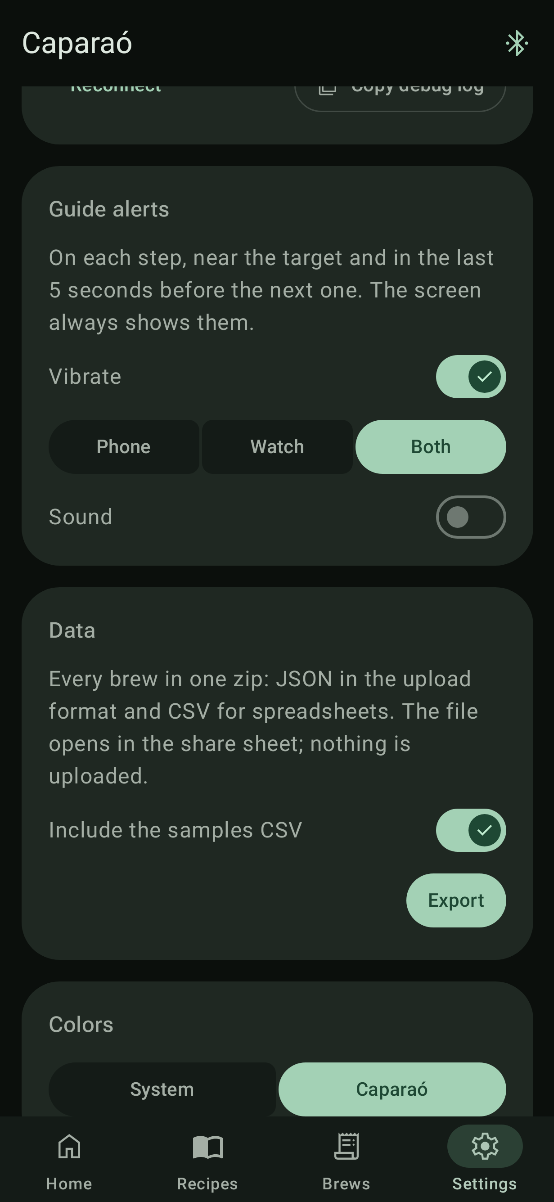
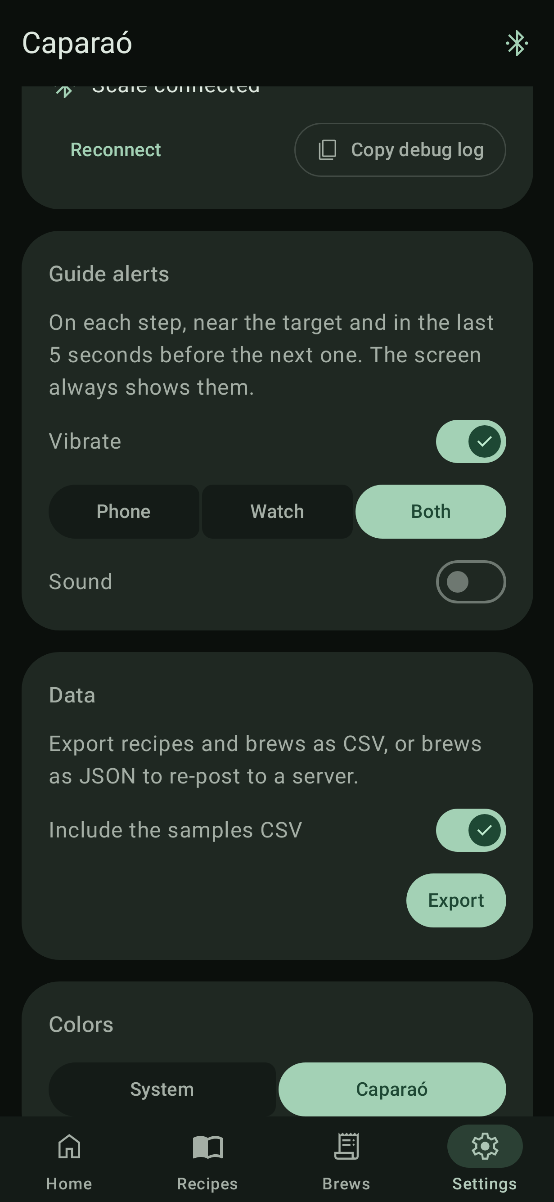
Export recipes as CSV too
Add recipes.csv to the zip, one row per step with the recipe fields repeated, and shorten the section copy to say what each format is for.

Changed region(s): [[0.0307, 0.0616, 0.9819, 0.6772], [0.4603, 0.3694, 0.5523, 0.4309], [0.0921, 0.4002, 0.1227, 0.4309]]

diff --git a/app/src/test/java/io/github/mateuxlucax/caparao/data/export/BrewExporterCsvTest.kt b/app/src/test/java/io/github/mateuxlucax/caparao/data/export/BrewExporterCsvTest.kt
@@ -4,6 +4,9 @@ import io.github.mateuxlucax.caparao.model.Brew
 import io.github.mateuxlucax.caparao.model.BrewMode
 import io.github.mateuxlucax.caparao.model.BrewSample
 import io.github.mateuxlucax.caparao.model.BrewWithSamples
+import io.github.mateuxlucax.caparao.model.Recipe
+import io.github.mateuxlucax.caparao.model.RecipeStep
+import io.github.mateuxlucax.caparao.model.StepKind
 import org.junit.Assert.assertEquals
 import org.junit.Assert.assertFalse
 import org.junit.Assert.assertTrue
@@ -35,6 +38,25 @@ class BrewExporterCsvTest {
     )
     private val samples = listOf(BrewSample(0, 0.0, 0.0), BrewSample(15_000, 17.9, 2.1), BrewSample(28_600, 36.4, 1.1))
     private val brews = listOf(BrewWithSamples(brew, samples))
+    private val recipe = Recipe(
+        id = "5d2b9f60-1c4e-4a8b-8e37-c0a1f6d3b7e5",
+        name = "V60",
+        mode = BrewMode.FILTER,
+        method = "V60",
+        doseGrams = 15.0,
+        targetRatio = 16.0,
+        grind = "22",
+        waterTempCelsius = 94,
+        notes = "Bright",
+        steps = listOf(
+            RecipeStep(StepKind.BLOOM, 30.0, 0),
+            RecipeStep(StepKind.POUR, 240.0, 30_000),
+            RecipeStep(StepKind.WAIT, null, 60_000),
+        ),
+        createdAt = 1_792_000_000_000,
+        updatedAt = 1_792_000_000_000,
+    )
+    private val recipes = listOf(recipe)
 
     @Test
     fun brewsCsvHasTheHeaderAndOneRowPerBrew() {
@@ -95,15 +117,64 @@ class BrewExporterCsvTest {
     fun zipHasJsonAndBothCsvs() {
         val entries = zipEntries(includeSamples = true)
 
-        assertEquals(setOf("brews.json", "brews.csv", "samples.csv"), entries.keys)
+        assertEquals(setOf("brews.json", "brews.csv", "recipes.csv", "samples.csv"), entries.keys)
         assertTrue(entries.getValue("brews.json").trimStart().startsWith("["))
         assertTrue(entries.getValue("brews.csv").startsWith("id,mode,"))
+        assertTrue(entries.getValue("recipes.csv").startsWith("recipe_id,"))
         assertTrue(entries.getValue("samples.csv").startsWith("brew_id,"))
     }
 
     @Test
     fun zipCanSkipTheSamplesCsv() {
-        assertEquals(setOf("brews.json", "brews.csv"), zipEntries(includeSamples = false).keys)
+        assertEquals(setOf("brews.json", "brews.csv", "recipes.csv"), zipEntries(includeSamples = false).keys)
+    }
+
+    @Test
+    fun recipesCsvListsOneRowPerStep() {
+        val lines = BrewExporter.recipesCsv(recipes).lines().filter { it.isNotEmpty() }
+
+        assertEquals(4, lines.size)
+        assertEquals(
+            "recipe_id,name,mode,method,dose_g,target_ratio,target_yield_g,grind,water_temp_c,notes,target_min_s,target_max_s," +
+                "step_position,step_kind,step_weight_g,step_at_s",
+            lines.first(),
+        )
+        val bloom = lines[1].split(",")
+        assertEquals(recipe.id, bloom[0])
+        assertEquals("V60", bloom[1])
+        assertEquals("filter", bloom[2])
+        assertEquals("15", bloom[4])
+        assertEquals("16", bloom[5])
+        assertEquals("240", bloom[6])
+        assertEquals("1", bloom[12])
+        assertEquals("bloom", bloom[13])
+        assertEquals("30", bloom[14])
+        assertEquals("0", bloom[15])
+        assertEquals("wait", lines[3].split(",")[13])
+        assertEquals("", lines[3].split(",")[14])
+        assertEquals("60", lines[3].split(",")[15])
+    }
+
+    @Test
+    fun espressoCsvHasOneRowWithEmptyStepColumns() {
+        val espresso = recipe.copy(
+            id = "b7c1a2d3-4e5f-4a6b-8c9d-0e1f2a3b4c5d",
+            name = "Oster",
+            mode = BrewMode.ESPRESSO,
+            method = "Espresso",
+            steps = emptyList(),
+            targetMinMs = 25_000,
+            targetMaxMs = 30_000,
+        )
+
+        val lines = BrewExporter.recipesCsv(listOf(espresso)).lines().filter { it.isNotEmpty() }
+
+        assertEquals(2, lines.size)
+        val row = lines[1].split(",")
+        assertEquals("espresso", row[2])
+        assertEquals("25", row[10])
+        assertEquals("30", row[11])
+        assertEquals(listOf("", "", "", ""), row.subList(12, 16))
     }
 
     @Test
@@ -112,12 +183,13 @@ class BrewExporterCsvTest {
 
         assertEquals("id,mode,", BrewExporter.brewsCsv(empty).take(8))
         assertEquals("brew_id,at_ms,", BrewExporter.samplesCsv(empty).take(14))
+        assertEquals("recipe_id,name,", BrewExporter.recipesCsv(emptyList()).take(15))
         assertEquals("[]", BrewExporter.json(empty))
     }
 
     private fun zipEntries(includeSamples: Boolean): Map<String, String> {
         val out = ByteArrayOutputStream()
-        BrewExporter.writeZip(out, brews, includeSamples)
+        BrewExporter.writeZip(out, brews, recipes, includeSamples)
         val entries = LinkedHashMap<String, String>()
         ZipInputStream(ByteArrayInputStream(out.toByteArray())).use { zip ->
             var entry = zip.nextEntry

diff --git a/app/src/main/java/io/github/mateuxlucax/caparao/data/export/BrewExporter.kt b/app/src/main/java/io/github/mateuxlucax/caparao/data/export/BrewExporter.kt
@@ -3,6 +3,7 @@ package io.github.mateuxlucax.caparao.data.export
 import io.github.mateuxlucax.caparao.data.exporter.ExporterClient
 import io.github.mateuxlucax.caparao.model.BrewMode
 import io.github.mateuxlucax.caparao.model.BrewWithSamples
+import io.github.mateuxlucax.caparao.model.Recipe
 import org.json.JSONArray
 import java.io.BufferedOutputStream
 import java.io.OutputStream
@@ -61,13 +62,52 @@ object BrewExporter {
     }
 
     /**
-     * The shareable archive: `brews.json` and `brews.csv` always, `samples.csv` only when [includeSamples]. The JSON
-     * always carries the curve, since it is the re-postable copy.
+     * One row per step, the recipe fields repeated; a recipe with no steps (espresso) still gets one row with the step
+     * columns empty, so nothing is lost.
      */
-    fun writeZip(out: OutputStream, brews: List<BrewWithSamples>, includeSamples: Boolean) {
+    fun recipesCsv(recipes: List<Recipe>): String = buildString {
+        appendLine(RECIPES_HEADER)
+        recipes.forEach { recipe ->
+            val fields = listOf(
+                csv(recipe.id),
+                csv(recipe.name),
+                if (recipe.mode == BrewMode.ESPRESSO) "espresso" else "filter",
+                csv(recipe.method),
+                number(recipe.doseGrams),
+                number(recipe.targetRatio),
+                number(recipe.targetYieldGrams),
+                csv(recipe.grind),
+                recipe.waterTempCelsius?.toString().orEmpty(),
+                csv(recipe.notes),
+                recipe.targetMinMs?.let { seconds(it) }.orEmpty(),
+                recipe.targetMaxMs?.let { seconds(it) }.orEmpty(),
+            )
+            if (recipe.steps.isEmpty()) {
+                appendLine(fields.joinToString(",") + ",,,,")
+            } else {
+                recipe.steps.forEachIndexed { index, step ->
+                    appendLine(
+                        (fields + listOf(
+                            (index + 1).toString(),
+                            step.kind.name.lowercase(),
+                            step.targetWeightGrams?.let { number(it) }.orEmpty(),
+                            seconds(step.targetAtMs),
+                        )).joinToString(","),
+                    )
+                }
+            }
+        }
+    }
+
+    /**
+     * The shareable archive: `brews.json`, `brews.csv` and `recipes.csv` always, `samples.csv` only when
+     * [includeSamples]. The JSON always carries the curve, since it is the re-postable copy.
+     */
+    fun writeZip(out: OutputStream, brews: List<BrewWithSamples>, recipes: List<Recipe>, includeSamples: Boolean) {
         ZipOutputStream(BufferedOutputStream(out)).use { zip ->
             zip.entry("brews.json", json(brews))
             zip.entry("brews.csv", brewsCsv(brews))
+            zip.entry("recipes.csv", recipesCsv(recipes))
             if (includeSamples) zip.entry("samples.csv", samplesCsv(brews))
         }
     }
@@ -96,4 +136,7 @@ object BrewExporter {
         "id,mode,started_at,duration_s,dose_g,yield_g,time_to_first_drop_s,flow_avg_gps,flow_peak_gps,interrupted," +
             "recipe_name,coffee,grind,water_temp_c,rating,notes"
     private const val SAMPLES_HEADER = "brew_id,at_ms,weight_g,flow_gps"
+    private const val RECIPES_HEADER =
+        "recipe_id,name,mode,method,dose_g,target_ratio,target_yield_g,grind,water_temp_c,notes,target_min_s,target_max_s," +
+            "step_position,step_kind,step_weight_g,step_at_s"
 }

diff --git a/app/src/test/java/io/github/mateuxlucax/caparao/data/export/BrewExportFilesTest.kt b/app/src/test/java/io/github/mateuxlucax/caparao/data/export/BrewExportFilesTest.kt
@@ -3,13 +3,19 @@ package io.github.mateuxlucax.caparao.data.export
 import android.content.Context
 import androidx.test.core.app.ApplicationProvider
 import io.github.mateuxlucax.caparao.data.local.BrewRepository
+import io.github.mateuxlucax.caparao.data.local.RecipeRepository
 import io.github.mateuxlucax.caparao.model.Brew
 import io.github.mateuxlucax.caparao.model.BrewMode
 import io.github.mateuxlucax.caparao.model.BrewSample
+import io.github.mateuxlucax.caparao.model.Recipe
+import io.github.mateuxlucax.caparao.model.RecipeStep
+import io.github.mateuxlucax.caparao.model.StepKind
 import io.github.mateuxlucax.caparao.ui.FakeBrewDao
+import io.github.mateuxlucax.caparao.ui.FakeRecipeDao
 import kotlinx.coroutines.runBlocking
 import org.json.JSONArray
 import org.junit.Assert.assertEquals
+import org.junit.Assert.assertTrue
 import org.junit.Test
 import org.junit.runner.RunWith
 import org.robolectric.RobolectricTestRunner
@@ -21,7 +27,8 @@ class BrewExportFilesTest {
     private val context = ApplicationProvider.getApplicationContext<Context>()
     private val dao = FakeBrewDao()
     private val repository = BrewRepository(dao)
-    private val files = BrewExportFiles(context, repository)
+    private val recipeRepository = RecipeRepository(FakeRecipeDao())
+    private val files = BrewExportFiles(context, repository, recipeRepository)
 
     private val brew = Brew(
         id = "0f8e1c2a-5b7d-4c3e-9a10-2f6d8b4e7c91",
@@ -44,13 +51,28 @@ class BrewExportFilesTest {
     @Test
     fun writesTheZipAndTheSingleBrewJsonThroughTheProvider() = runBlocking {
         repository.save(brew, samples)
+        recipeRepository.save(
+            Recipe(
+                id = "5d2b9f60-1c4e-4a8b-8e37-c0a1f6d3b7e5",
+                name = "V60",
+                mode = BrewMode.FILTER,
+                method = "V60",
+                doseGrams = 15.0,
+                targetRatio = 16.0,
+                steps = listOf(RecipeStep(StepKind.BLOOM, 30.0, 0), RecipeStep(StepKind.POUR, 240.0, 30_000)),
+                createdAt = 1_792_000_000_000,
+                updatedAt = 1_792_000_000_000,
+            ),
+        )
 
         val all = files.all(includeSamples = true)
         assertEquals("application/zip", all.mimeType)
         assertEquals("content", all.uri.scheme)
         assertEquals("${context.packageName}.fileprovider", all.uri.authority)
         val bytes = context.contentResolver.openInputStream(all.uri)!!.use { it.readBytes() }
-        assertEquals(setOf("brews.json", "brews.csv", "samples.csv"), zipEntries(bytes).keys)
+        val entries = zipEntries(bytes)
+        assertEquals(setOf("brews.json", "brews.csv", "recipes.csv", "samples.csv"), entries.keys)
+        assertTrue(entries.getValue("recipes.csv").contains("V60"))
 
         val one = files.one(brew, samples)
         assertEquals("application/json", one.mimeType)

diff --git a/app/src/main/java/io/github/mateuxlucax/caparao/data/export/BrewExportFiles.kt b/app/src/main/java/io/github/mateuxlucax/caparao/data/export/BrewExportFiles.kt
@@ -4,6 +4,7 @@ import android.content.Context
 import android.net.Uri
 import androidx.core.content.FileProvider
 import io.github.mateuxlucax.caparao.data.local.BrewRepository
+import io.github.mateuxlucax.caparao.data.local.RecipeRepository
 import io.github.mateuxlucax.caparao.model.Brew
 import io.github.mateuxlucax.caparao.model.BrewSample
 import io.github.mateuxlucax.caparao.model.BrewWithSamples
@@ -15,12 +16,13 @@ import java.io.File
 data class ExportedFile(val uri: Uri, val mimeType: String)
 
 /** Writes the exports to the cache and hands them to the share sheet through the FileProvider (#76). */
-class BrewExportFiles(private val context: Context, private val repository: BrewRepository) {
-    /** Every brew in one zip: contract JSON, `brews.csv` and, when asked, `samples.csv`. */
+class BrewExportFiles(private val context: Context, private val repository: BrewRepository, private val recipes: RecipeRepository) {
+    /** Every brew and recipe in one zip: contract JSON, `brews.csv`, `recipes.csv` and, when asked, `samples.csv`. */
     suspend fun all(includeSamples: Boolean): ExportedFile = withContext(Dispatchers.IO) {
         val brews = repository.allWithSamples()
+        val recipeList = recipes.all()
         val file = newFile("caparao-export.zip")
-        file.outputStream().use { BrewExporter.writeZip(it, brews, includeSamples) }
+        file.outputStream().use { BrewExporter.writeZip(it, brews, recipeList, includeSamples) }
         ExportedFile(uri(file), "application/zip")
     }
 

diff --git a/app/src/main/java/io/github/mateuxlucax/caparao/data/local/RecipeRepository.kt b/app/src/main/java/io/github/mateuxlucax/caparao/data/local/RecipeRepository.kt
@@ -6,6 +6,7 @@ import io.github.mateuxlucax.caparao.model.RecipeStep
 import io.github.mateuxlucax.caparao.model.StepKind
 import kotlinx.coroutines.flow.Flow
 import kotlinx.coroutines.flow.combine
+import kotlinx.coroutines.flow.first
 
 /** Recipes on the phone (#102); they never leave it, only a brew's copy of the name does. */
 class RecipeRepository(private val dao: RecipeDao) {
@@ -16,6 +17,9 @@ class RecipeRepository(private val dao: RecipeDao) {
     }
 
     suspend fun get(id: String): Recipe? = dao.get(id)?.toModel(dao.steps(id))
+
+    /** Every recipe with its steps, for the export (#76). */
+    suspend fun all(): List<Recipe> = recipes.first()
 
     /** Inserts or replaces [recipe] and its steps. */
     suspend fun save(recipe: Recipe) = dao.save(recipe.toEntity(), recipe.stepEntities())

diff --git a/app/src/test/java/io/github/mateuxlucax/caparao/ui/screens/ScreenshotsTest.kt b/app/src/test/java/io/github/mateuxlucax/caparao/ui/screens/ScreenshotsTest.kt
@@ -127,7 +127,7 @@ abstract class ScreenshotsTest(private val lang: String, private val theme: Stri
             initializer { OnboardingViewModel(scale) {} }
             initializer { ScaleStatusViewModel(scale) }
             initializer { TargetRatioViewModel(settings) }
-            initializer { ExportViewModel(BrewExportFiles(context, brews)) }
+            initializer { ExportViewModel(BrewExportFiles(context, brews, recipes)) }
             initializer { RecipesViewModel(recipes) }
             initializer { CoffeeBagsViewModel(CoffeeBagRepository(db.coffeeBags())) }
             initializer { RecipeEditorViewModel(requireNotNull(this[RecipeEditorViewModel.TARGET]), recipes) }

diff --git a/app/src/test/java/io/github/mateuxlucax/caparao/ui/screens/AppScreensTest.kt b/app/src/test/java/io/github/mateuxlucax/caparao/ui/screens/AppScreensTest.kt
@@ -94,7 +94,7 @@ class AppScreensTest {
         initializer { OnboardingViewModel(scale, onboardingDone) }
         initializer { ScaleStatusViewModel(scale) }
         initializer { TargetRatioViewModel(settings) }
-            initializer { ExportViewModel(BrewExportFiles(context, brews)) }
+            initializer { ExportViewModel(BrewExportFiles(context, brews, recipes)) }
         initializer { RecipesViewModel(recipes) }
         initializer { CoffeeBagsViewModel(CoffeeBagRepository(db.coffeeBags())) }
         initializer { RecipeEditorViewModel(requireNotNull(this[RecipeEditorViewModel.TARGET]), recipes) }

diff --git a/app/src/main/java/io/github/mateuxlucax/caparao/AppContainer.kt b/app/src/main/java/io/github/mateuxlucax/caparao/AppContainer.kt
@@ -57,7 +57,7 @@ class AppContainer(context: Context) {
     val coffeeBags = CoffeeBagRepository(database.coffeeBags())
 
     /** Writes the exports to the cache and shares them through the FileProvider (#76). */
-    val export = BrewExportFiles(appContext, brews)
+    val export = BrewExportFiles(appContext, brews, recipes)
 
     private val exporter = ExporterClient()
 

diff --git a/README.md b/README.md
@@ -37,7 +37,7 @@ Personal, sideloaded app: no Play Store listing. English and Brazilian Portugues
 - **Offline-first:** no account and no server needed. Sync is an add-on.
 - **Your data:** brews go to any server that follows the [contract](contract/README.md), such as
   [timemore-dot-prometheus-exporter](https://github.com/MateuxLucax/timemore-dot-prometheus-exporter).
-- **Export:** every brew in a zip (JSON in the upload format plus CSV) or one brew as JSON, through the share sheet.
+- **Export:** recipes and brews as CSV, or brews as JSON in the upload format, in a zip through the share sheet.
 - **Material 3 Expressive:** Roboto Flex, Material You colors or the Caparaó green, light and dark.
 
 The clips above are real recordings from the emulator, with a replayed scale session standing in for the Dot; the

diff --git a/docs/data.md b/docs/data.md
@@ -51,7 +51,7 @@ No scale address is stored: the app scans each time ([hardware.md](hardware.md))
 ## Export
 
 Settings → Export writes `cache/exports/caparao-export.zip` with `brews.json` (the upload contract, curve included),
-`brews.csv` and, optionally, `samples.csv`. A brew's detail shares one JSON. `FileProvider` grants the receiving app
-read access, so no storage permission is needed and the export uploads nothing by itself.
+`brews.csv`, `recipes.csv` and, optionally, `samples.csv`. A brew's detail shares one JSON. `FileProvider` grants the
+receiving app read access, so no storage permission is needed and the export uploads nothing by itself.
 
 All of it is excluded from cloud backups and device transfers.
